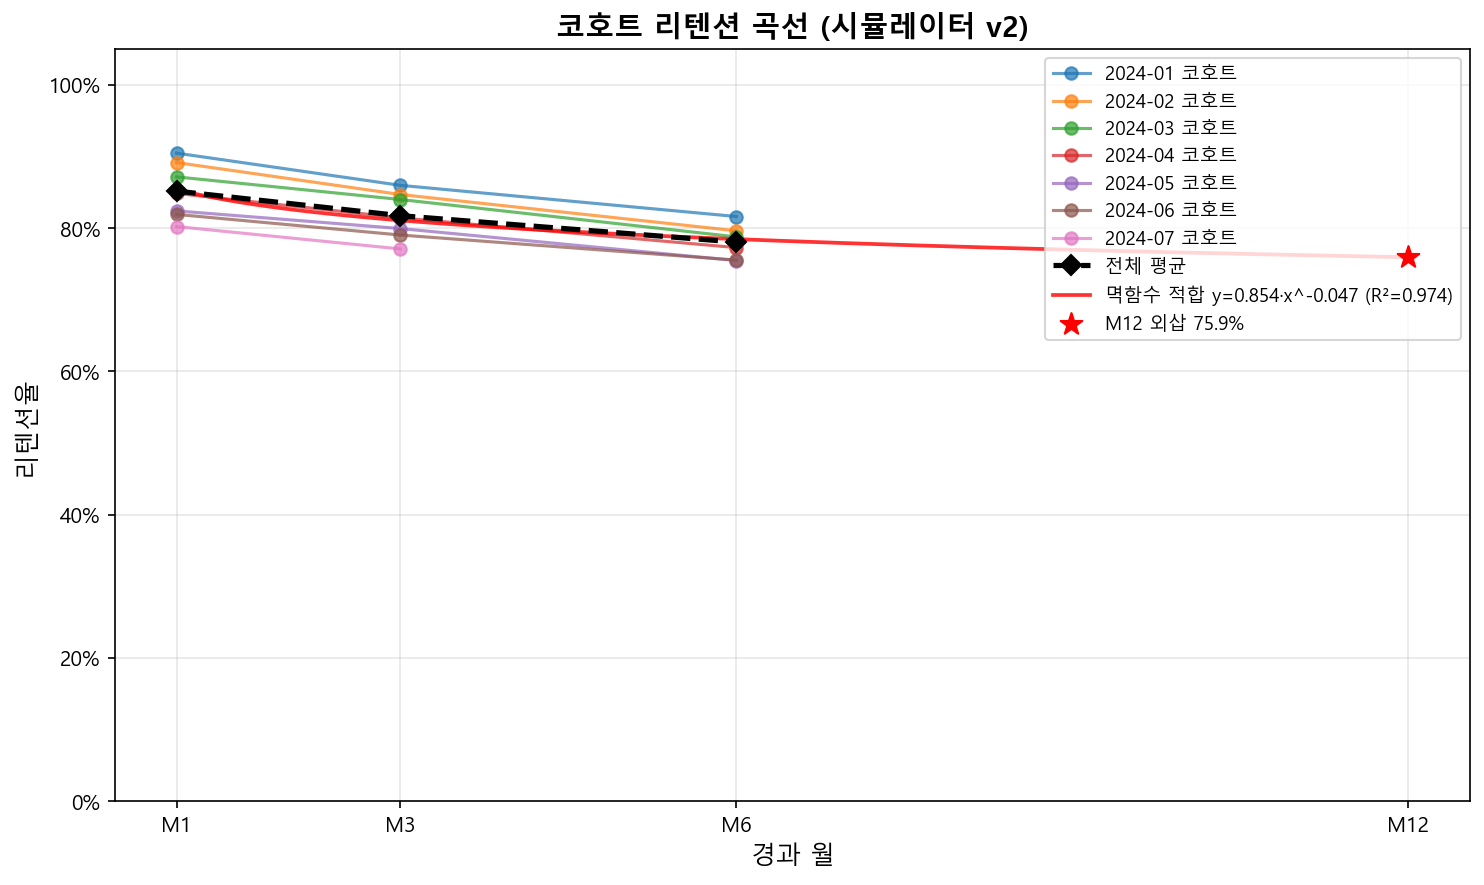
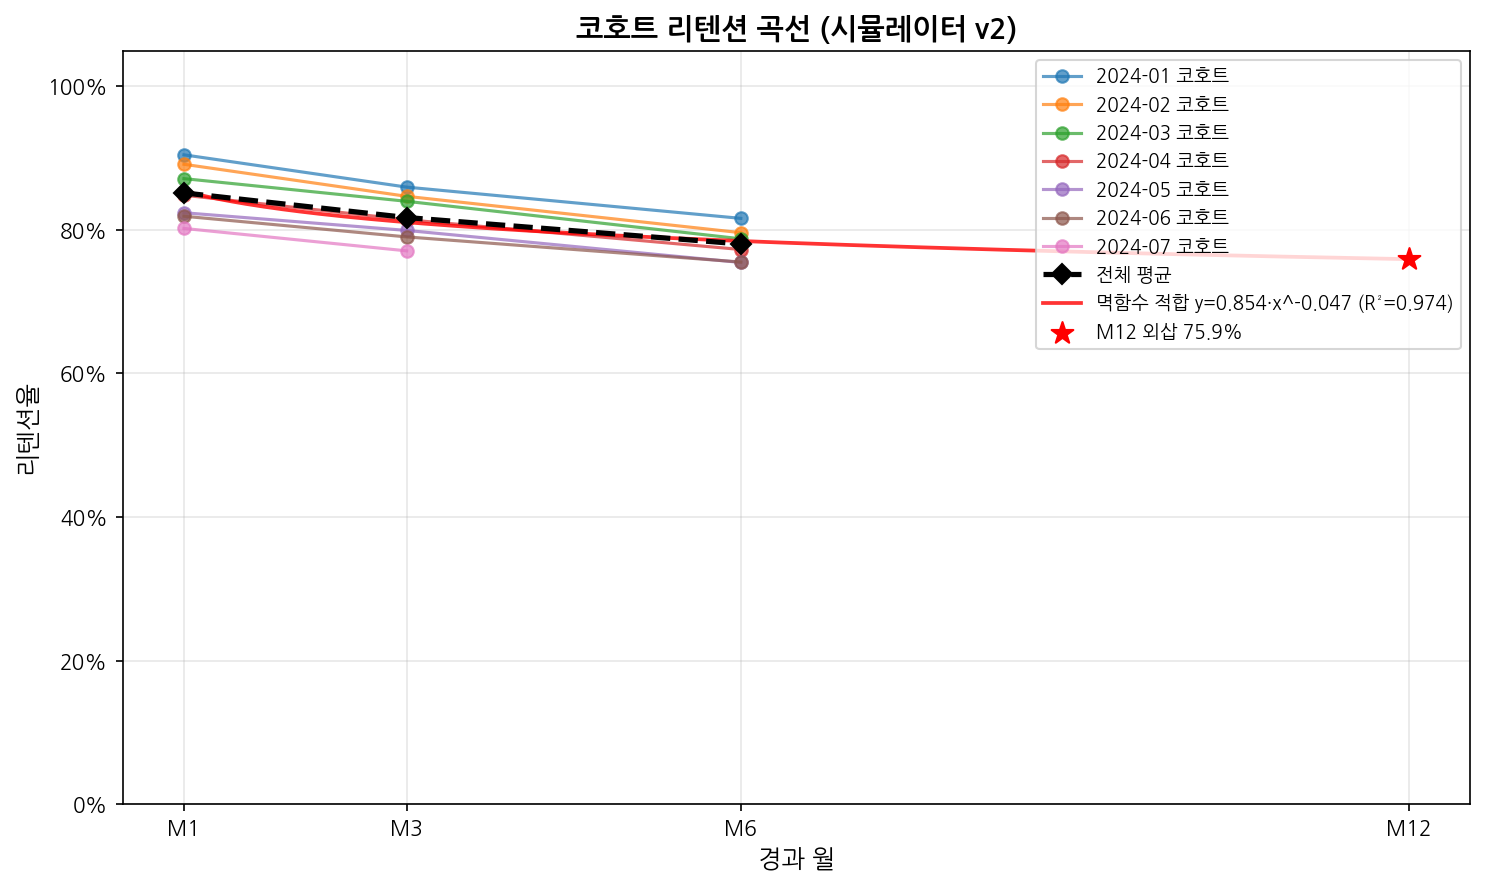
Merge pull request #28 from neibler/infra/27
Infra/27

Pull request: Infra/27
## 개요
요구사항 §7 "docker-compose up 한 번에 전체 시스템 실행" 충족.
시뮬레이터 + 검증 자동화를 컨테이너화하여 중간보고/최종 제출 환경 구성.

## 변경 파일

### Dockerfile (수정)
- Python 3.10-slim 베이스
- fonts-nanum + fc-cache 추가 (한글 폰트 정상 렌더링)
- matplotlib 폰트 캐시 무효화
- torch CPU-only wheel 설치
- non-root 사용자(appuser) 실행

### docker-compose.yml (수정)
- 기존 단일 app 서비스를 3개로 분리
  - simulator: 데이터 생성 (main.py simulate)
  - validator: 검증 자동 실행 (validate_simulator.py)
  - dashboard: Streamlit (profiles로 분리, 추후 활성화)
- depends_on + service_completed_successfully로 순차 실행
- env_file: .env 의존성 제거 (별도 파일 불필요)

### requirements.txt (수정)
- scipy>=1.13 추가 (validate_simulator.py의 curve_fit 의존성)

### .dockerignore (신규)
- data/raw, results, .git, __pycache__ 등 제외
- 이미지 빌드 효율화

## 검증 결과

### 빌드 + 실행
| 항목 | 결과 |
|------|------|
| 빌드 시간 | 3분 50초 |
| 이미지 크기 | 3.78 GB |
| 전체 실행 시간 | 4분 6초 |

### 자동 생성 파일
| 파일 | 크기 | 상태 |
|------|------|------|
| data/raw/customers.csv | 777 KB | ✅ |
| data/raw/events.csv | 165 MB | ✅ |
| results/cohort_retention.png | 101 KB | ✅ (한글 정상) |
| results/v2_validation_report.md | 2.2 KB | ✅ |

### 컨테이너 동작
| 컨테이너 | exit code | 검증 |
|---------|-----------|------|
| churn-simulator | 0 | ✅ |
| churn-validator | 0 | ✅ depends_on 정상 |

## 사용 방법

```bash
# 전체 파이프라인 실행 (시뮬레이터 + 검증)
docker compose up --build

# 종료
docker compose down

# 환경 변수 커스터마이즈 (선택)
APP_MODE=simulate SIM_MODE=small docker compose up
```

## 향후 작업
[…]

diff --git a/src/data/validate_simulator.py b/src/data/validate_simulator.py
@@ -3,6 +3,7 @@
 이탈 직전 행동 감쇠가 정상 동작하는지 통계 검증하고,
 코호트 리텐션 곡선을 시각화하며, 검증 리포트를 자동 생성한다.
 """
+import sys
 import pandas as pd
 import numpy as np
 import matplotlib.pyplot as plt
@@ -511,9 +512,13 @@ def main() -> None:
     )
     print("[6] 리포트 저장: results/v2_validation_report.md")
 
+    overall_ok = decay_ok and r2_ok
     print("\n" + "=" * 60)
-    print("검증 완료")
+    print("검증 완료" if overall_ok else "검증 실패")
     print("=" * 60)
+
+    if not overall_ok:
+        sys.exit(1)
 
 
 if __name__ == "__main__":

diff --git a/results/v2_validation_report.md b/results/v2_validation_report.md
@@ -1,5 +1,5 @@
 # 시뮬레이터 v2 검증 리포트
-생성일: 2026-05-04 04:43:56
+생성일: 2026-05-03 20:27:33
 
 ## 1. 행동 감쇠 검증
 - scheduled_churn_day 기반 이탈 전 30일 vs 직전 30일 비율: 0.571